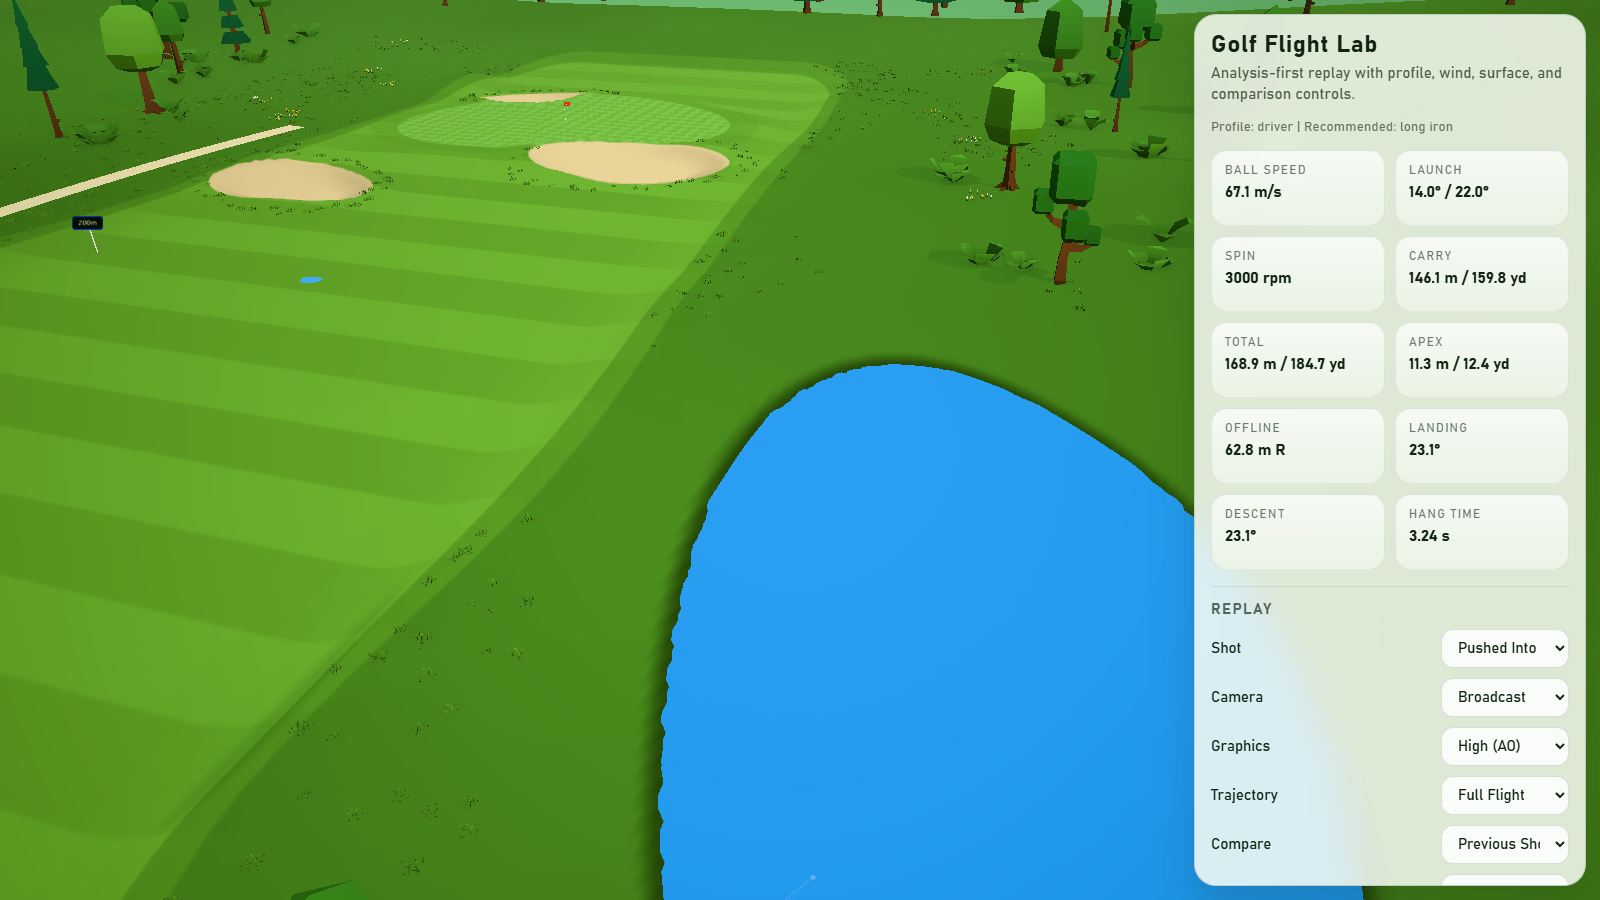
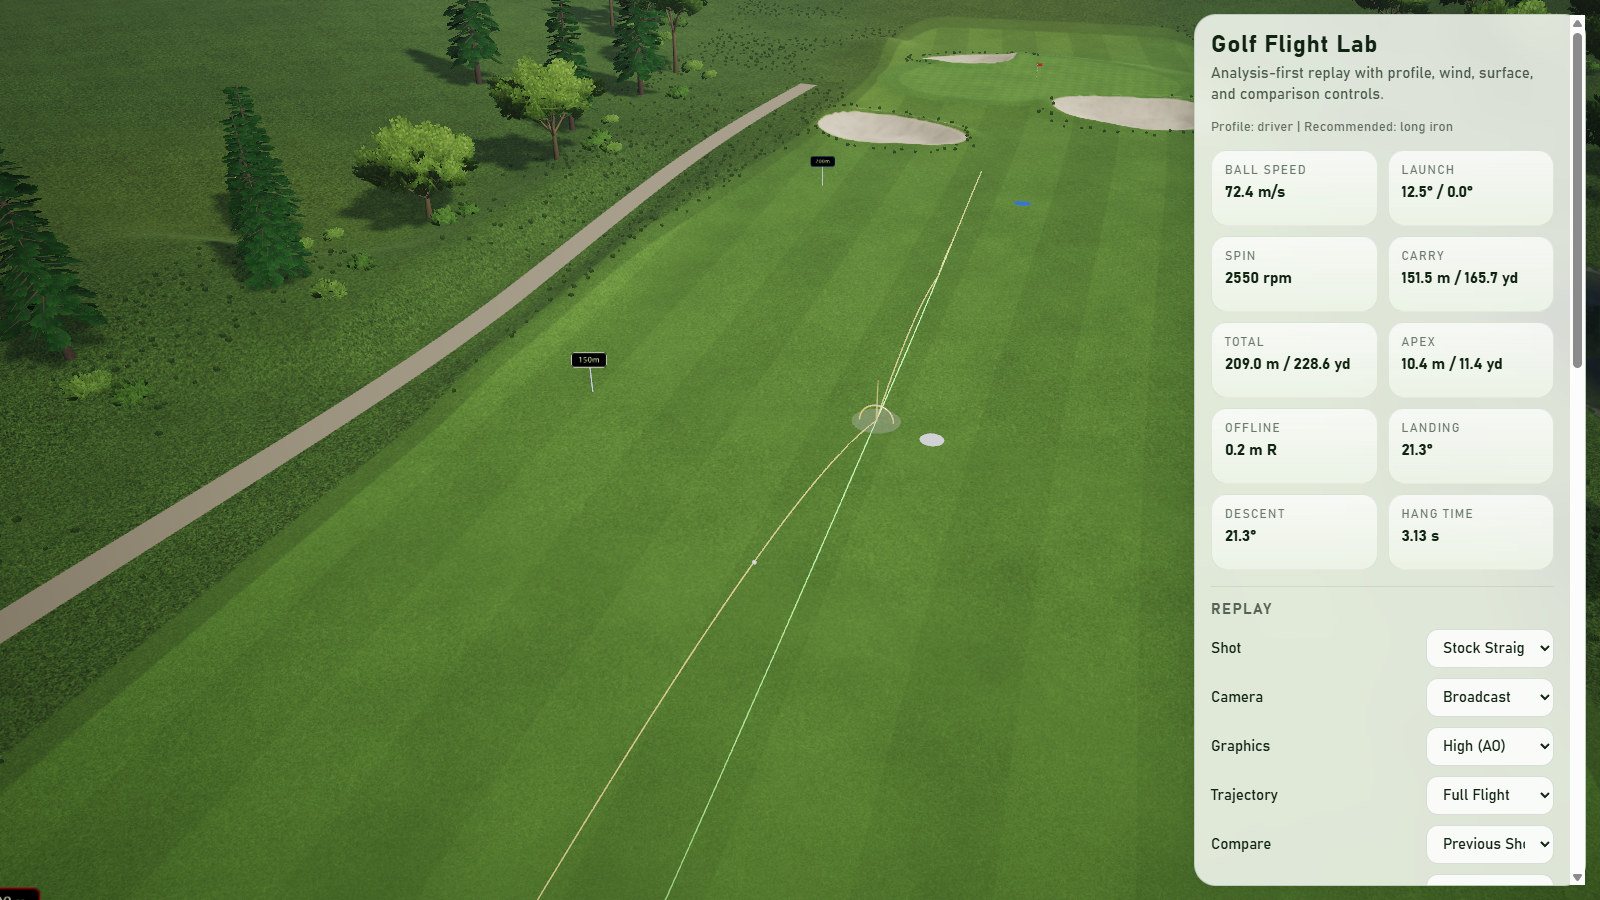
Update README and AGENTS.md for the semi-realistic renderer
Describe the HDRI/PBR look, procedural trees and impostors, CC0 asset
pipeline, graphics presets with measured frame times, and the scenery,
asset, and performance-budget rules. Refresh the README screenshot.

diff --git a/README.md b/README.md
@@ -10,10 +10,12 @@ Babylon.js + TypeScript + Vite demo for visualizing launch-monitor-style golf sh
 
 - Browser-based 3D hole with real relief (driving-zone dip, raised green plateau, valley sides, rough mounds, raised tee box), irregular bunkers, a pond, a cart path, tree lines, flag, tee markers, and distance markers
 - Terrain-aware physics: the ball lands, bounces off slopes, and rolls downhill on the same terrain that is drawn
-- Stylized "soft flat" look: every surface is a flat colour from one palette (`src/render/palette.ts`), shaped by lighting, soft shadows, and ambient occlusion
-- Palette-painted terrain with crisp, antialiased edges that sit exactly on the physics surface boundaries, a first-cut collar, fairway mowing stripes, and a checkered green
-- Low-poly CC0 trees, bushes, grass clumps, and wildflowers from the Kenney Nature Kit, recoloured from the palette
-- Post-processing with MSAA, restrained bloom, Khronos PBR Neutral tone mapping, and SSAO (switchable in the panel), plus a gradient sky with low-poly clouds and backdrop hills
+- Semi-realistic look: an HDRI sky that also lights every PBR material, a matching shadow-casting sun, and distance haze
+- PBR terrain textured with CC0 photo detail and normal maps, with no visible tiling, mowing stripes, a checkered green, and raked bunkers; surface edges sit exactly on the physics surface boundaries
+- A pond with depth-tinted water, shore foam, ripples, and (on High) a planar reflection
+- Trees generated in code from CC0 leaf, needle, and bark photos, with wind sway, crossed-card grass clumps in the rough, and a far forest drawn as baked impostors
+- Two graphics presets, Standard and High, set in one table in `src/render/renderConfig.ts`
+- Post-processing with MSAA or FXAA, restrained bloom, ACES tone mapping, and SSAO
 - Structured JSON shot input with centralized unit normalization to SI units
 - Custom fixed-timestep ballistics with gravity, drag, Magnus-style lift and curve, spin decay, bounce, skid, and roll
 - Calibration profiles for `driver`, `long_iron`, `short_iron`, `wedge`, and `putt_like`
@@ -157,30 +159,53 @@ This keeps rollout differences simple but visible. The same launch landing on fa
 
 ## Render Style
 
-The scene uses a stylized "soft flat" look: flat palette colours, soft shadows, and ambient occlusion, with no photographic textures. The rendering is split into modules:
+The scene aims for a semi-realistic, broadcast-style look built from CC0 photographic assets. The rendering is split into modules:
 
+- `src/render/renderConfig.ts`
+  sun, sky, haze, tone, terrain shading, water, and wind settings, plus the `QUALITY_PRESETS` table that holds every per-quality setting
 - `src/render/palette.ts`
-  every scene colour as a named sRGB constant: surfaces, vegetation, sky, light, props, ball, and trajectory
+  painted base colours for course surfaces, props, and overlays (sRGB, with helpers for linear PBR use)
+- `src/render/sky.ts`
+  the HDRI panorama, used as both the visible sky and image-based lighting, rotated so its sun matches the directional light
 - `src/render/terrain.ts`
   procedural hole layout, rolling height field, soft surface weights, and the surface classification thresholds shared with the physics
-- `src/render/materials.ts` and `src/render/terrainStylePlugin.ts`
-  a baked surface mask and tint map, painted in palette colours by a material plugin; each surface edge is drawn at the same weight the physics uses to classify it, so what the ball lands on matches what is shown
-- `src/render/sky.ts`
-  gradient sky dome with sun glow and a ring of low-poly clouds
-- `src/render/assetLibrary.ts` and `src/render/vegetation.ts`
-  glTF model loading (geometry only, recoloured with palette vertex colours) and placement of trees, bushes, grass, and flowers
+- `src/render/materials.ts`, `src/render/terrainPbrPlugin.ts`, and `src/render/terrainTextures.ts`
+  a baked surface mask and tint map, plus a PBR material plugin that blends photo detail and normal texture arrays per surface; each surface edge is drawn at the same weight the physics uses to classify it
+- `src/render/water.ts`
+  the pond surface: depth tint, shore foam, ripples, and the planar reflection
+- `src/render/treeGenerator.ts` and `src/render/foliageTextures.ts`
+  seeded procedural trees (broadleaf, conifer, bush): bark tubes and alpha-tested leaf-cluster cards composed from the photo atlases
+- `src/render/vegetation.ts`
+  placement of corridor trees, bushes, rough grass, and the far forest; trees are kept off the pond, the cart path, and anything beyond the modelled terrain
+- `src/render/impostor.ts`
+  bakes each tree from eight directions into an atlas and draws distant copies as camera-facing quads
+- `src/render/windPlugin.ts`
+  vertex sway and flutter shared by trees, bushes, and grass
+- `src/render/shadows.ts`
+  sun shadows: cascaded on High, a single map on Standard
 - `src/render/courseDetails.ts`
-  the pond's water surface and the cart path draped over the terrain
+  the cart path draped over the terrain
 - `src/render/props.ts`
   flag, cup, tee markers, distance markers, and backdrop hills
 - `src/render/postProcess.ts`
-  MSAA, bloom, tone mapping, colour grading, and SSAO
+  anti-aliasing, bloom, tone mapping, colour grading, and SSAO
 - `src/render/scene.ts`
-  scene orchestration, lighting, fog, shadows, cameras, and terrain-to-physics surface lookup
+  scene orchestration, lighting, fog, cameras, and terrain-to-physics surface lookup
 
-Vegetation loads asynchronously: the course renders immediately and the trees appear once their models arrive. If the models fail to load, the scene logs a warning and stays fully usable without them.
+Vegetation loads asynchronously: the course renders immediately, the trees and grass appear once their textures are composed, and the far forest appears once its impostors are baked. If loading fails, the scene logs a warning and stays fully usable without them.
 
-The ball uses a bright material with a fresnel rim and dimple normal detail so it stays readable against both sky and grass.
+The ball uses a white clear-coated material with dimple normal detail and a little emission, so it stays readable against both sky and grass.
+
+### Assets
+
+Every third-party file in `public/` is CC0 (Poly Haven and ambientCG) and is listed with its source and processing in `public/LICENSE.md`. The processed files are committed. To refresh them, run:
+
+```bash
+python scripts/fetch-assets.py            # everything
+python scripts/fetch-assets.py vegetation # only foliage and bark textures
+```
+
+The script needs Python 3, and `ffmpeg` / `ffprobe` on `PATH` to decode the HDRI.
 
 ## Analysis UX
 
@@ -213,15 +238,22 @@ The current shot is highlighted in warm colors. Comparison overlays render in a 
 - `src/core/ballistics.ts`: deterministic fixed-timestep flight simulation
 - `src/core/collision.ts`: bounce, skid, roll, and surface friction
 - `src/core/physicsConfig.ts`: centralized tunable constants
-- `src/render/palette.ts`: all scene colours
-- `src/render/ballRenderer.ts`: ball mesh, rim-lit material, and shadow disc
+- `src/render/renderConfig.ts`: lighting, environment, shading constants, and graphics quality presets
+- `src/render/palette.ts`: painted surface, prop, and overlay colours
+- `src/render/ballRenderer.ts`: ball mesh, clear-coat material, and shadow disc
 - `src/render/terrain.ts`: procedural hole terrain (non-uniform grid, bunker bowls, green contour), surface lookup, and classification thresholds
 - `src/render/materials.ts`: terrain surface mask and tint maps, and prop materials
-- `src/render/terrainStylePlugin.ts`: material plugin that paints the terrain surfaces in palette colours
-- `src/render/sky.ts`: sky dome and clouds
-- `src/render/assetLibrary.ts`: glTF model loading and palette recolouring
-- `src/render/vegetation.ts`: tree, bush, grass, and flower placement
-- `src/render/courseDetails.ts`: pond water and cart path
+- `src/render/terrainPbrPlugin.ts`: PBR material plugin that paints and textures the terrain surfaces
+- `src/render/terrainTextures.ts`: terrain detail and normal texture arrays
+- `src/render/sky.ts`: HDRI sky and image-based lighting
+- `src/render/shadows.ts`: sun shadow generator per quality preset
+- `src/render/water.ts`: pond water surface and reflection
+- `src/render/treeGenerator.ts`: procedural tree, conifer, and bush meshes
+- `src/render/foliageTextures.ts`: leaf-cluster, needle, grass, and bark textures
+- `src/render/vegetation.ts`: tree, bush, grass, and forest placement
+- `src/render/impostor.ts`: impostor baking and billboard material for the far forest
+- `src/render/windPlugin.ts`: wind sway material plugin
+- `src/render/courseDetails.ts`: cart path
 - `src/render/props.ts`: pin, tee and distance markers, and backdrop hills
 - `src/render/postProcess.ts`: post-processing pipeline and graphics quality switch
 - `src/render/proceduralNoise.ts`: shared deterministic hash and noise helpers
@@ -232,16 +264,29 @@ The current shot is highlighted in warm colors. Comparison overlays render in a 
 
 ## Performance Controls
 
-The rendering path stays browser-friendly by design:
+The panel's Graphics select switches between two presets defined in `QUALITY_PRESETS` (`src/render/renderConfig.ts`):
+
+| Setting | Standard | High |
+|---|---|---|
+| Target | 60 fps on an integrated laptop GPU | a discrete GPU |
+| Anti-aliasing | FXAA | 4x MSAA |
+| Bloom | off | on |
+| Shadows | one 1024 px map | two 2048 px cascades |
+| SSAO | off | on |
+| Terrain anti-tiling | off | on |
+| Pond reflection | sky only | planar reflection of trees and banks |
+| Rough grass density | 55% | 100% |
+
+On an AMD Radeon 780M (integrated) at 1600 x 900, Standard renders a frame in about 9 to 13 ms. High takes about 20 to 27 ms there, so it is meant for a discrete GPU. On that GPU the most expensive passes are MSAA (about 6 ms), cascaded shadow re-rendering, the pond reflection, SSAO, and bloom. The trees themselves cost about 1 ms.
+
+Other choices that keep the frame cheap:
 
 - terrain uses one procedural mesh with a non-uniform grid: sub-metre triangles around the tee and green complex, coarse triangles in the outskirts
-- the terrain is painted from two baked lookup textures in a single StandardMaterial pass (see `src/render/terrainStylePlugin.ts`), so shadows, fog, and tone mapping stay on Babylon's built-in path; no tiled textures are loaded
-- each vegetation model is merged into one mesh; trees and bushes render as instances with a per-copy tint, and only trees near the hole cast shadows
-- grass clumps and flowers are thin instances: one draw call per model
-- SSAO is the one expensive pass; the panel's Graphics select switches between "High (AO)" and "Standard" (no AO)
+- each tree variant is one merged mesh; corridor trees are instances with a per-copy tint, and only trees near the hole cast shadows
+- the far forest is a few hundred impostor quads drawn as thin instances (one draw call per tree variant); it grows only on the modelled terrain, just deep enough to close the horizon
+- rough grass is thin instances of one crossed-card clump; Standard draws a random subset of them
+- the live readouts in the panel update ten times a second, not every frame
 - the physics samples the terrain height function directly (a few lookups per step), not the rendered mesh, so ground contact costs no mesh queries
-
-Model assets live in `public/models/` and are CC0 from the Kenney Nature Kit (see `public/models/LICENSE.md`).
 
 The current largest browser cost is still the Babylon bundle size. Vite build passes, but the final chunk is large and can be code-split later if needed.
 
@@ -254,3 +299,6 @@ The current largest browser cost is still the Babylon bundle size. Vite build pa
 - The field is a single procedural hole demo, not a reusable course editor.
 - The ground is a height field: no overhangs, and a ball on the ground stays glued to it rather than going airborne over a sharp crest.
 - Ground contact uses the analytic height function; the rendered mesh interpolates it between vertices, so the two can differ by a few centimetres on steep features.
+- Trees are procedural approximations built from photo cards, not scanned models. Impostors show eight fixed views, so a far tree can visibly switch views as the camera orbits.
+- Shadow maps are rendered without wind sway, and grass and impostors cast no shadows.
+- The High preset does not hold 60 fps on integrated GPUs.

diff --git a/AGENTS.md b/AGENTS.md
@@ -112,7 +112,20 @@ Structure the code into clear modules:
   - landing, bounce, roll
 
 - `src/render/scene.ts`
-  - Babylon scene setup
+  - Babylon scene setup, lighting, fog, cameras
+
+- `src/render/renderConfig.ts`
+  - sun, sky, haze, tone, terrain, water, and wind constants
+  - `QUALITY_PRESETS`: every per-quality setting in one table
+
+- `src/render/terrain.ts`, `materials.ts`, `terrainPbrPlugin.ts`, `terrainTextures.ts`
+  - height field, surface classification shared with physics, PBR terrain shading
+
+- `src/render/sky.ts`, `shadows.ts`, `postProcess.ts`, `water.ts`
+  - HDRI sky and image-based lighting, sun shadows, post stack, pond
+
+- `src/render/vegetation.ts`, `treeGenerator.ts`, `foliageTextures.ts`, `impostor.ts`, `windPlugin.ts`
+  - procedural trees from photo textures, placement, far-forest impostors, wind sway
 
 - `src/render/ballRenderer.ts`
   - ball mesh and visual updates
@@ -153,6 +166,39 @@ The scene should look clean and readable:
 - visible trajectory line
 
 The ball must remain visually trackable during flight.
+
+The current look is semi-realistic (broadcast golf style): HDRI sky with
+image-based lighting, PBR materials, photo-textured terrain without visible
+tiling, procedural trees built from photo leaf cards.
+
+Rules for scenery:
+- Vegetation and props stay on the modelled terrain (`terrainWidthM` x
+  `terrainLengthM`, centred on the origin). Nothing grows over the backdrop.
+- Keep trees off the pond, the cart path, and the playing corridor.
+- Distant trees are impostors, not full geometry. Don't add scenery that is
+  only visible from far away; the backdrop hills close the horizon.
+- Vegetation loads asynchronously; a failed load must leave a usable course.
+
+## Assets
+- Third-party assets must be CC0 (Poly Haven, ambientCG, or similar).
+- `scripts/fetch-assets.py` downloads and processes them into `public/`;
+  the processed files are committed.
+- Record every asset with its source, licence, and processing in
+  `public/LICENSE.md`.
+- Keep each asset to a few MB. Poly Haven tree glTFs (25–215 MB each) were
+  rejected for this reason.
+
+## Performance Budget
+- Graphics presets live in `QUALITY_PRESETS` (`src/render/renderConfig.ts`).
+- "standard" must hold 60 fps (under 16.7 ms per frame) on an integrated
+  laptop GPU (reference: AMD Radeon 780M at 1600 x 900).
+- "high" may assume a discrete GPU.
+- Measure before optimizing. On integrated GPUs the expensive passes are MSAA,
+  cascaded shadow re-rendering, the planar water reflection, SSAO, and bloom.
+  Vegetation geometry is cheap.
+- New expensive effects need a preset flag, and must be off on "standard"
+  unless they fit the budget.
+- Don't touch the DOM every frame; the live readouts are throttled.
 
 ## UX Requirements
 Include:
